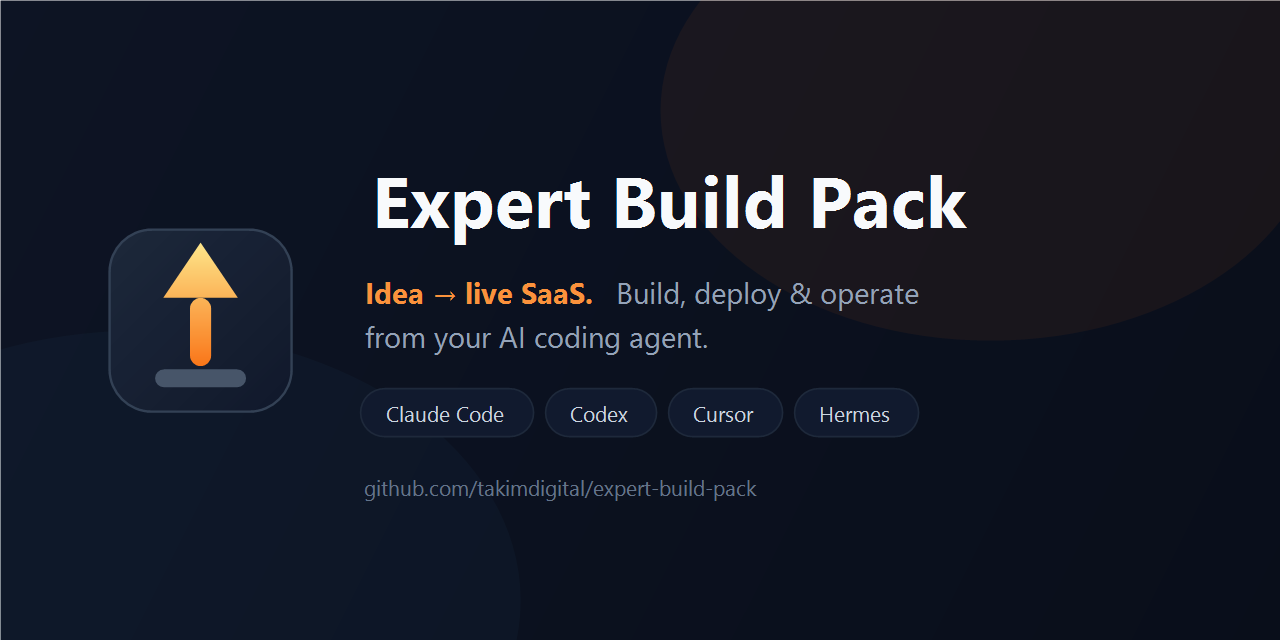
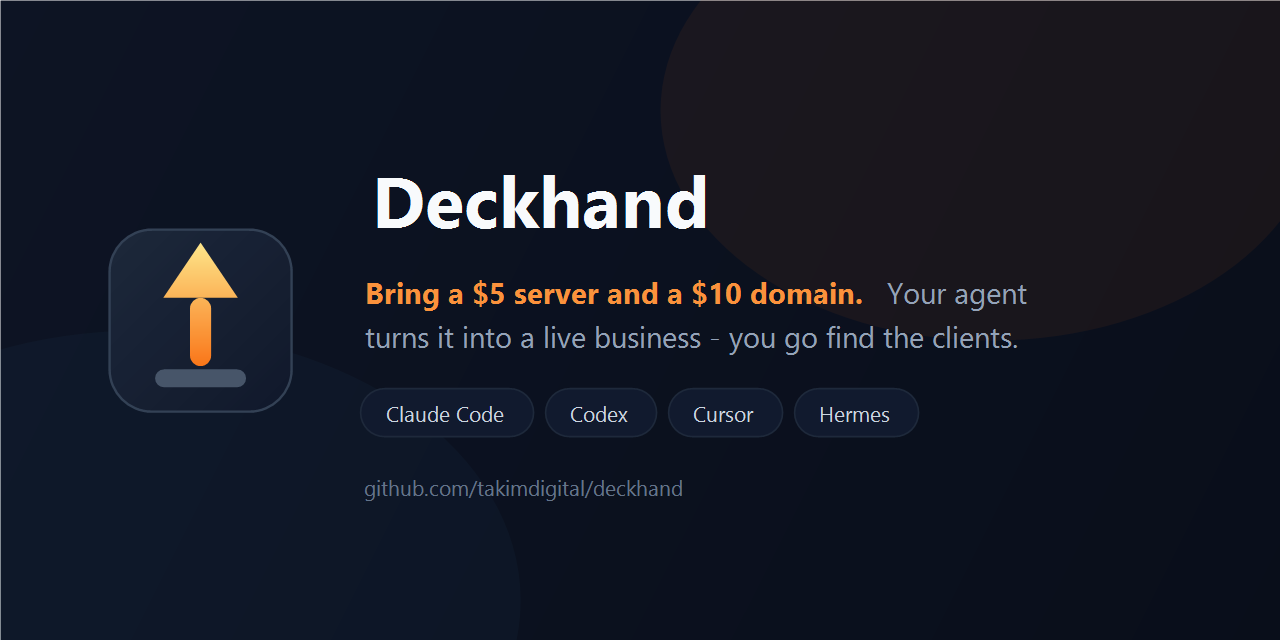
rebrand: Deckhand v0.3.0 — skill renamed buildout, cost-first README + uncomfortable math, social assets

Changed region(s): [[0.2812, 0.4375, 0.8125, 0.5625], [0.2812, 0.25, 0.75, 0.375], [0.4688, 0.75, 0.5938, 0.7812]]

diff --git a/assets/preview.html b/assets/preview.html
@@ -2,7 +2,7 @@
 <html>
 <head>
 <meta charset="utf-8">
-<title>Expert Build Pack — social preview</title>
+<title>Deckhand — social preview</title>
 <style>
   html, body { margin: 0; width: 1280px; height: 640px; overflow: hidden; }
   body {
@@ -32,7 +32,7 @@
 <body>
   <div class="glow"></div>
   <div class="wrap">
-    <svg xmlns="http://www.w3.org/2000/svg" width="208" height="208" viewBox="0 0 128 128" role="img" aria-label="Expert Build Pack">
+    <svg xmlns="http://www.w3.org/2000/svg" width="208" height="208" viewBox="0 0 128 128" role="img" aria-label="Deckhand">
       <defs>
         <linearGradient id="tile" x1="0" y1="0" x2="1" y2="1">
           <stop offset="0" stop-color="#1E293B"/><stop offset="1" stop-color="#0F172A"/>
@@ -47,12 +47,12 @@
       <path d="M64 16 L87 50 H41 Z" fill="url(#flame)"/>
     </svg>
     <div>
-      <h1>Expert Build Pack</h1>
-      <p><b>Idea → live SaaS.</b> Build, deploy &amp; operate<br>from your AI coding agent.</p>
+      <h1>Deckhand</h1>
+      <p><b>Bring a $5 server and a $10 domain.</b> Your agent turns them<br>into a live business — you go find the clients.</p>
       <div class="chips">
         <span class="chip">Claude Code</span><span class="chip">Codex</span><span class="chip">Cursor</span><span class="chip">Hermes</span>
       </div>
-      <div class="url">github.com/takimdigital/expert-build-pack</div>
+      <div class="url">github.com/takimdigital/deckhand</div>
     </div>
   </div>
 </body>

diff --git a/skills/buildout/scripts/registry_sync.py b/skills/buildout/scripts/registry_sync.py
@@ -1,5 +1,5 @@
 #!/usr/bin/env python3
-"""registry_sync.py - living shadcn-registry pool for the expert-build-pack.
+"""registry_sync.py - living shadcn-registry pool for the buildout skill.
 
 sync    fetch https://ui.shadcn.com/r/registries.json -> filter by health ->
         merge MIT allowlist -> write compact data/registries.snapshot.json
@@ -20,7 +20,7 @@ SNAPSHOT = DATA / "registries.snapshot.json"
 ALLOWLIST = DATA / "allowlist.json"
 ITEMS_DIR = DATA / "items"
 SOURCE = "https://ui.shadcn.com/r/registries.json"
-UA = {"User-Agent": "expert-build-pack/0.2 (+agentskills.io)"}
+UA = {"User-Agent": "deckhand-buildout/0.2 (+agentskills.io)"}
 BROWSER_UA = {"User-Agent": "Mozilla/5.0 (Windows NT 10.0; Win64; x64) AppleWebKit/537.36 (KHTML, like Gecko) Chrome/124.0 Safari/537.36"}
 KEEP_STATUSES = {"healthy"}
 

diff --git a/skills/buildout/README.md b/skills/buildout/README.md
@@ -1,4 +1,4 @@
-# Expert Build Pack
+# Buildout
 
 Portable, harness-agnostic skill pack for building an online business / SaaS end to end: ideation -> foundations -> build -> design -> git -> deploy -> maintain.
 
@@ -11,7 +11,7 @@ Synthesized from Phase-1 research: 8 research streams, 97 dated sources (priorit
 ## Layout
 
 ```
-expert-build-pack/
+buildout/
 |-- SKILL.md                    # router: triggers, protocols, budgets (start here)
 |-- references/
 |   |-- formats/                # step-record - handoff-envelope - verify-ladder - terminal-states
@@ -40,9 +40,9 @@ component-library/              # companion skill (ships alongside)
 
 ## Install (any harness)
 
-**Hermes Agent** - copy this folder to `<hermes home>/skills/software-development/expert-build-pack/` (and `component-library/` alongside it), then `/reload-skills` or start a new session. Invoke via `/expert-build-pack ...` or let it auto-trigger.
+**Hermes Agent** - copy this folder to `<hermes home>/skills/software-development/buildout/` (and `component-library/` alongside it), then `/reload-skills` or start a new session. Invoke via `/buildout ...` or let it auto-trigger.
 
-**Claude Code** - copy to `~/.claude/skills/expert-build-pack/` (personal) or `.claude/skills/expert-build-pack/` (project).
+**Claude Code** - copy to `~/.claude/skills/buildout/` (personal) or `.claude/skills/buildout/` (project).
 
 **Codex / ChatGPT** - Codex discovers `.agents/skills/` (repo) and `$HOME/.agents/skills/` (user). Keep descriptions short: the initial skills list has a tight character budget (~2% of context) and descriptions get shortened first.
 
@@ -52,7 +52,7 @@ component-library/              # companion skill (ships alongside)
 
 ## Usage
 
-- Explicit: `/expert-build-pack`
+- Explicit: `/buildout`
 - Deploy: companion `vps-ops` — bring your own VPS + domain, or take the $0 free-preview track (Oracle Cloud Always Free + free domain) — see `vps-ops/references/11-oracle-free-tier.md`
 - Auto-trigger: phrases like "scope the MVP", "set up repo conventions", "review the deploy plan".
 - Buildout: "start me a SaaS from a boilerplate", "design this site", "find me a hero section".

diff --git a/skills/buildout/SKILL.md b/skills/buildout/SKILL.md
@@ -1,5 +1,5 @@
 ---
-name: expert-build-pack
+name: buildout
 description: "Build/ship SaaS and online businesses with expert refs."
 version: 0.2.2
 author: Takim, Hermes Agent
@@ -11,7 +11,7 @@ metadata:
     tags: [saas, build, jargon, execution-first, machine-first, protocols, delegation, handoff, refs, harness-agnostic, buildout, registries]
 ---
 
-# Expert Build Pack
+# Buildout
 
 A portable knowledge-and-protocol pack for building an online business/SaaS end to end: ideation → foundations → build → design → git → deploy → maintain. It carries: (1) **expert reference files** (jargon, constraints, procedures, anti-patterns), (2) **three operational protocols** — execution-first loops, machine-first state/handoffs, and a verified update loop that keeps the refs current, and (3) a **buildout engine** (v0.2): start from a verified-MIT boilerplate, assemble the UI coherently from the live shadcn registry pool, and store what you build for reuse (`references/buildout/`). Harness-agnostic: the layout follows the agentskills.io spec, so the same folder works in Hermes, Claude Code, Codex/ChatGPT, Cursor, and any spec-conformant runtime.
 
@@ -23,7 +23,7 @@ A portable knowledge-and-protocol pack for building an online business/SaaS end 
 - A build phase needs its checklist/loop, or work is about to be delegated to subagents
 - A new project should start from a boilerplate, or a UI needs to be assembled from component registries
 - The session uncovers missing/incorrect build knowledge → run the Update Loop
-- Explicit invocation: `/expert-build-pack`
+- Explicit invocation: `/buildout`
 
 ## Don't Use For
 

diff --git a/skills/vps-ops/SKILL.md b/skills/vps-ops/SKILL.md
@@ -7,12 +7,12 @@ platforms: [linux, macos, windows]
 metadata:
   hermes:
     tags: [deploy, vps, coolify, hostinger, oracle, free-tier, preview, cloudflare, dns, ssl, ssh, operations, backups, rollback, migration]
-    related_skills: [expert-build-pack, component-library]
+    related_skills: [buildout, component-library]
 ---
 
 # vps-ops — VPS deploy & management (Coolify)
 
-Takes a project built by `expert-build-pack` and ships it to a real server: bootstrap the VPS, install
+Takes a project built by `buildout` and ships it to a real server: bootstrap the VPS, install
 Coolify, point the domain, deploy, and then run the whole "user asks for a change → it ships" loop —
 all from the harness, without the user ever touching the server.
 
@@ -20,7 +20,7 @@ all from the harness, without the user ever touching the server.
 
 - The user wants to deploy/host/go live, mentions a VPS, Coolify, domain/DNS/SSL, or "put my app online".
 - Any post-deploy request: check status, read logs, ship a change, roll back, backups, updates.
-- The buildout skill (`expert-build-pack`) finished in the project — deploy is the next phase.
+- The buildout skill finished in the project — deploy is the next phase.
 - The user has no VPS/domain yet, or wants a $0 live preview → Track F: `references/11-oracle-free-tier.md` (+ `21` for the free domain).
 - The user wants to leave the preview (or move any server → server) → `references/60-migrate-to-paid.md`.
 

diff --git a/skills/component-library/SKILL.md b/skills/component-library/SKILL.md
@@ -13,7 +13,7 @@ metadata:
 
 # Component Library
 
-Personal store for UI components the user builds or adapts, so they can be found and reused in any later project instead of rebuilt. The store is a shadcn-compatible folder (`registry.json` + `r/<name>.json` + `items/`) plus a flat `index.jsonl` the agent can grep cheaply even with hundreds of items. Companion to `expert-build-pack` (used at the end of buildout sessions to keep what was built).
+Personal store for UI components the user builds or adapts, so they can be found and reused in any later project instead of rebuilt. The store is a shadcn-compatible folder (`registry.json` + `r/<name>.json` + `items/`) plus a flat `index.jsonl` the agent can grep cheaply even with hundreds of items. Companion to `buildout` (used at the end of buildout sessions to keep what was built).
 
 ## When to Use
 
@@ -23,7 +23,7 @@ Personal store for UI components the user builds or adapts, so they can be found
 
 ## Don't Use For
 
-- Third-party code with unverified provenance/license (MIT-only rule from `expert-build-pack`; record `--source` always).
+- Third-party code with unverified provenance/license (MIT-only rule from `buildout`; record `--source` always).
 - One-off style snippets — store real components.
 
 ## How to Run

diff --git a/CHANGELOG.md b/CHANGELOG.md
@@ -1,5 +1,14 @@
 # Changelog
 
+## 2026-09-19 — rebrand: Deckhand (pack v0.3.0)
+
+The pack has a name now: **Deckhand** — *bring a $5 server and a $10 domain; your agent turns them into a live business while you go find the clients.* The name carries the insight: the barrier was never the money — it's the overwhelm. That pile of unfamiliar tech is the deckhand's job.
+
+- Repository renamed `expert-build-pack` → `deckhand` (GitHub redirects old links automatically).
+- Skill `expert-build-pack` renamed **`buildout`** ("idea → codebase"); cross-references in `vps-ops` and `component-library` updated. Invocation: `/buildout`.
+- README rewritten around the cost reality (~$5/month server + ~$10/year domain = the whole door) and the human's job (finding clients). Social-preview + logo assets carry the new name.
+- No functional changes to the runbooks; 36 tests green; zip == repo.
+
 ## 2026-09-19 — paid track validated live (vps-ops v0.2.2)
 
 A real Next.js + Postgres SaaS was taken from a private repo to a live HTTPS domain on a rented VPS

diff --git a/skills/vps-ops/README.md b/skills/vps-ops/README.md
@@ -1,6 +1,6 @@
 # vps-ops
 
-Companion skill to `expert-build-pack`: deploy & manage the built project on the user's own VPS with
+Companion skill to `buildout`: deploy & manage the built project on the user's own VPS with
 Coolify — or prove it live at $0 first on the free-preview track.
 
 - **Two tracks, the user's choice** — *paid* (their VPS + domain) or *free preview*
@@ -15,8 +15,8 @@ Coolify — or prove it live at $0 first on the free-preview track.
 
 ## Install
 
-Copy this folder into the harness's skills dir, or use the combined zip (`expert-build-pack.zip`,
-contains `expert-build-pack/` + `component-library/` + `vps-ops/`).
+Copy this folder into the harness's skills dir, or use the combined zip (`deckhand.zip`,
+contains `buildout/` + `component-library/` + `vps-ops/`).
 Known skill dirs: `~/.claude/skills/`, `~/.agents/skills/`, `~/.codex/skills/`, Hermes profile skills dir.
 
 ## Layout
